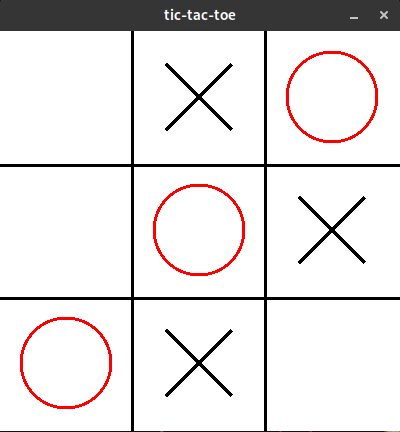
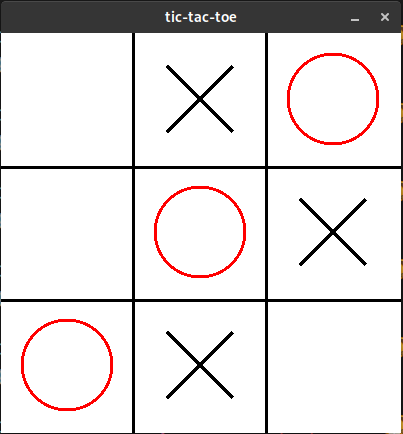
.

diff --git a/README.md b/README.md
@@ -4,7 +4,7 @@ Tic Tac Toe game made with golang and pixel.
 
 <p align="center">
 	<a href="">
-		<img alt="Game" src="demo.png" width="300px">
+		<img alt="Game" src="demo.png" width="200px">
 	</a>
 </p>
 
